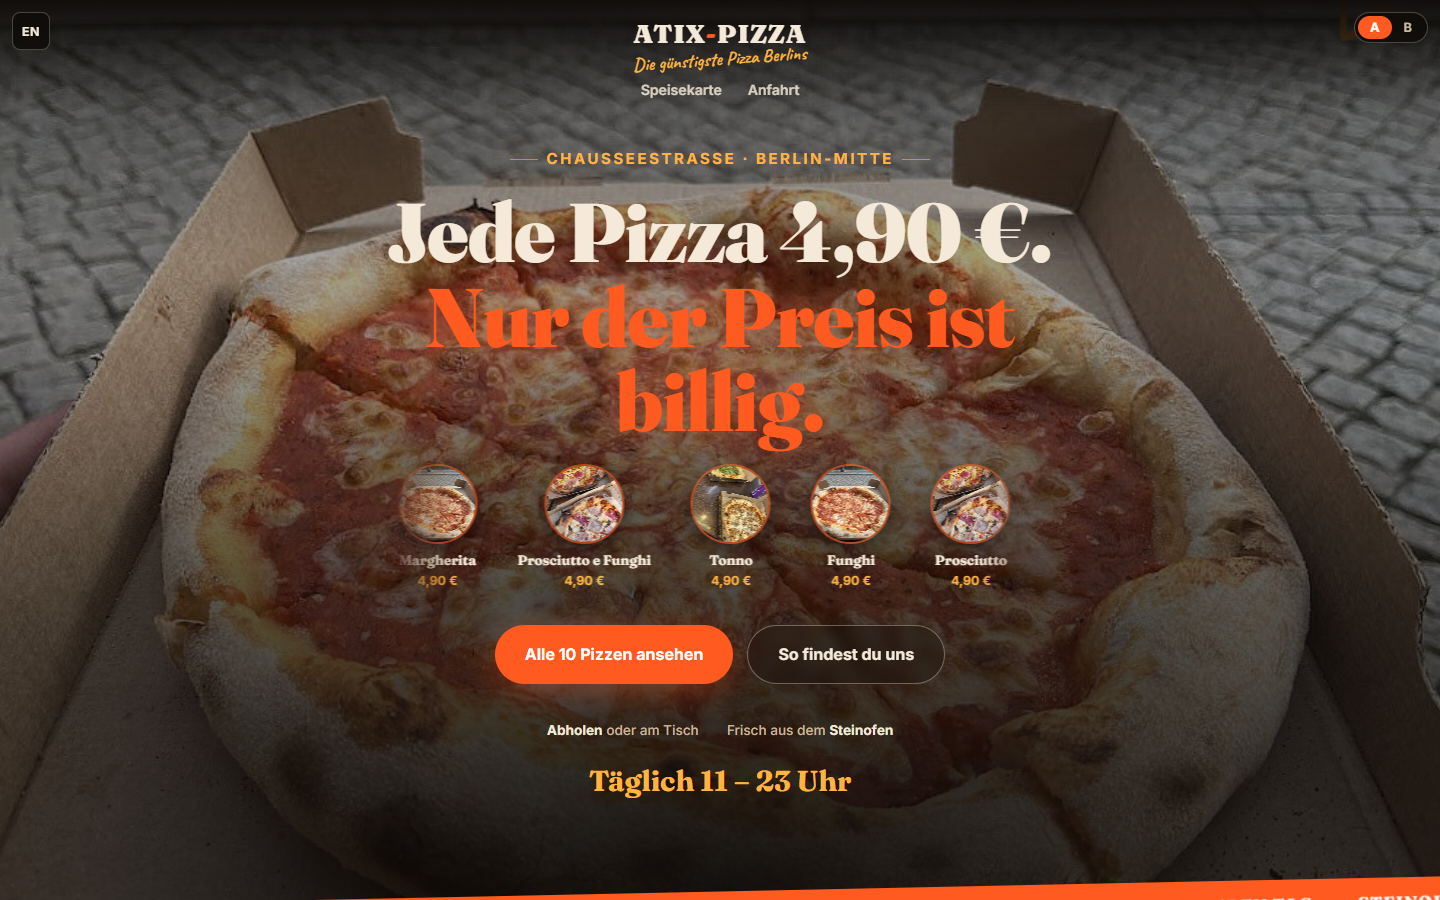
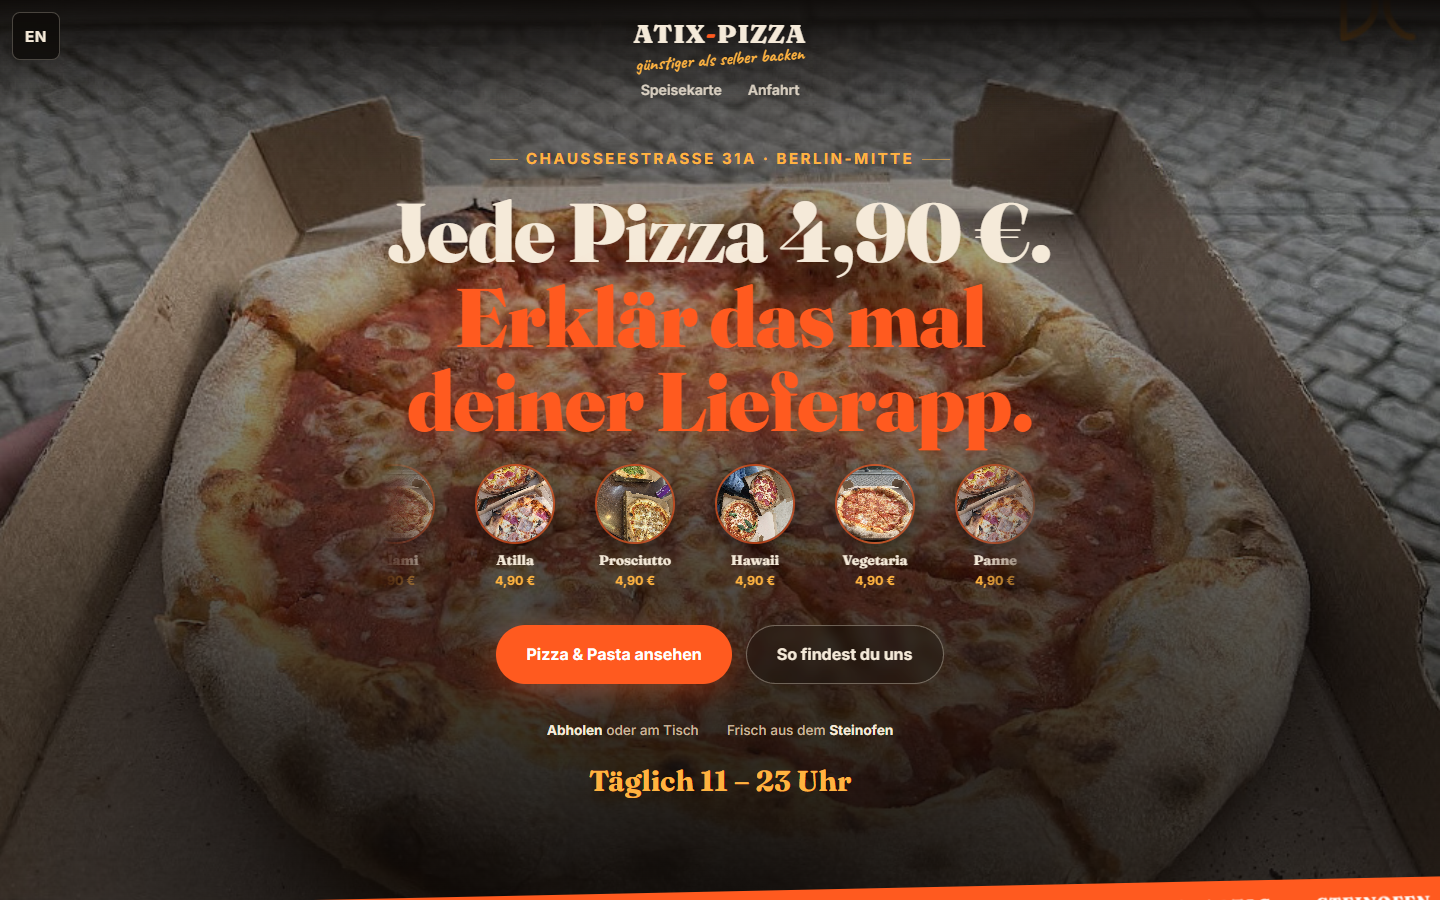
fix: ATIX-Referenz überarbeitet – Beschreibung neutraler, Screenshot aktualisiert

diff --git a/src/lib/site.ts b/src/lib/site.ts
@@ -63,9 +63,9 @@ export const projects: Project[] = [
     client: "ATIX-PIZZA",
     sector: "Pizzeria · Berlin-Mitte",
     year: "2026",
-    services: ["Webdesign", "Zweisprachig", "A/B-Testing"],
+    services: ["Webdesign", "Zweisprachig", "Copywriting"],
     description:
-      "Onepager für die günstigste Pizza Berlins: jede Pizza 4,90 €, frech getextet auf Ogilvy-Art — mit Pizza-Fließband, Sprachumschalter und A/B-Test für zwei Copy-Varianten.",
+      "Onepager für die günstigste Pizza Berlins: jede Pizza 4,90 €, frech getextet und auf Mobile zugespitzt — mit Pizza-Fließband, klickbaren Sorten und Sprachumschalter. Vom ersten Entwurf bis zum Launch auf Google Maps in zwei Tagen.",
     image: "/work/atix-pizza.png",
     url: "https://pizzeria-atix.vercel.app",
     status: "live",
